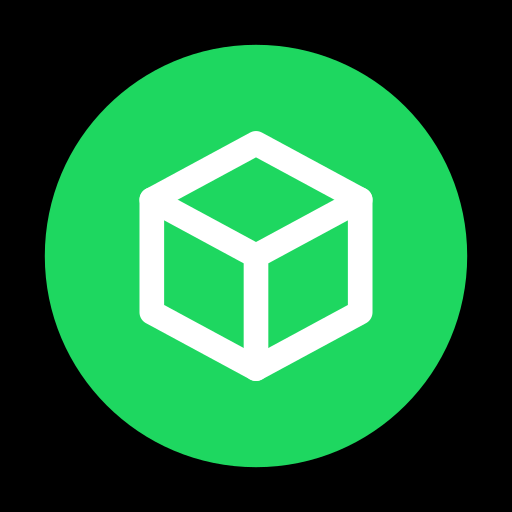
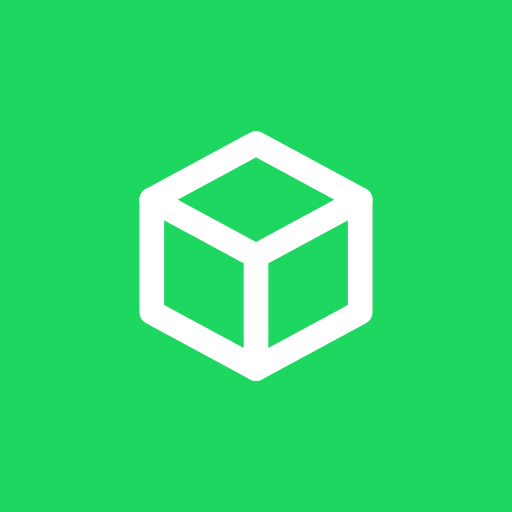
-edges

diff --git a/public/sw.js b/public/sw.js
@@ -1,6 +1,6 @@
 /* Offline-first service worker: app shell + poster cache + background release checks. */
 const VERSION = "v2";
-const SHELL = "shell-v3"; // bump when icons change so cached icons are evicted
+const SHELL = "shell-v4"; // bump when icons change so cached icons are evicted
 const STATIC = `static-${VERSION}`;
 const IMAGES = `images-${VERSION}`;
 
